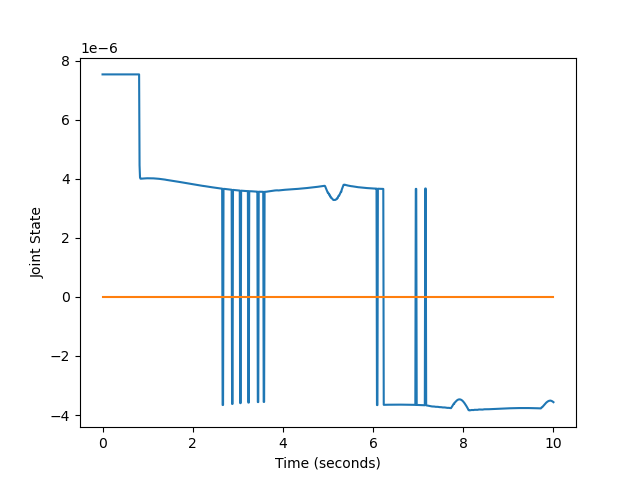
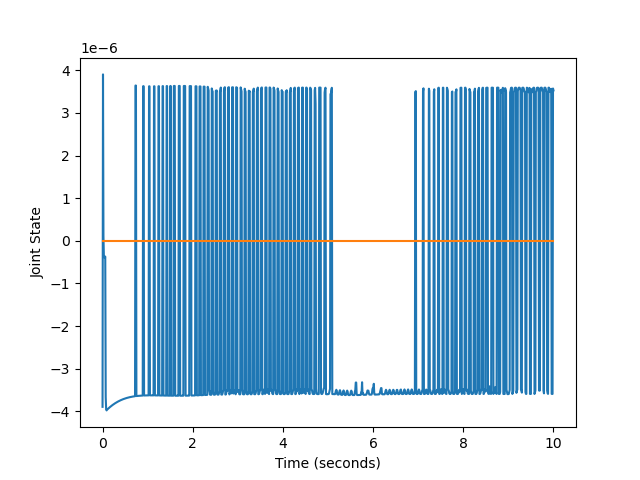
accounted for gravity, set Kp and Kd values for joint 3

diff --git a/src/scara_kinematics/scara_kinematics/pd_controller.py b/src/scara_kinematics/scara_kinematics/pd_controller.py
@@ -14,12 +14,14 @@ class PlotTool():
 
         # initialize counters
         self.total_time = 10  # seconds
-        self.counter = 0
         self.total_counts = int(self.total_time / self.update_period)
 
 
     def newPlot(self, ref_state):
         self.ref_state = ref_state
+
+        # reset counter
+        self.counter = 0
 
         # total joint states stored over the time period
         self.cur_state_total = np.empty((3,0), float)
@@ -117,8 +119,19 @@ class PDControllerNode(Node):
         # error between current state and reference state
         cur_error = self.ref_state_ - self.cur_state_
 
+        # based on direction of error, apply different Kp value for joint 3
+        '''
+        if cur_error[2] < 0:  # if error negative, we are travelling upwards
+            self.kp_[2] = 1000
+            self.kd_[2] = 30
+        '''
+
         # control input that has proportional and derivate components
-        u = self.kp_ * cur_error + self.kd_ * (cur_error - self.prev_error_) / self.update_period_
+        u = self.kp_*cur_error + self.kd_*(cur_error-self.prev_error_) / self.update_period_
+
+        # account for gravity
+        u[2,0] = u[2,0] - 9.8
+
 
         # publish control input
         msg = Float64MultiArray()
@@ -137,9 +150,9 @@ class PDControllerNode(Node):
 def main(args=None):
     rclpy.init(args=args)
     # kp[0] is the proportional gain for joint 0
-    kp = np.array([[0.1], [0.1], [75]])
+    kp = np.array([[0.1], [0.1], [100]])
     # kp[0] is the derivative gain for joint 1
-    kd = np.array([[0.1], [0.1], [0.1]])
+    kd = np.array([[0.1], [0.1], [125]])
     # create controller, update rate is 10 ms
     pd_controller = PDControllerNode(0.01, kp, kd)
     rclpy.spin(pd_controller)
